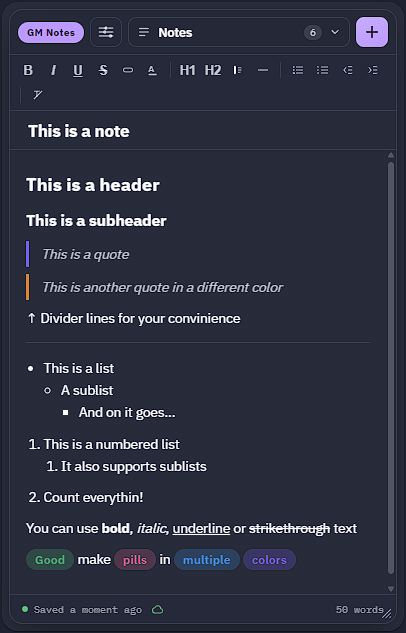
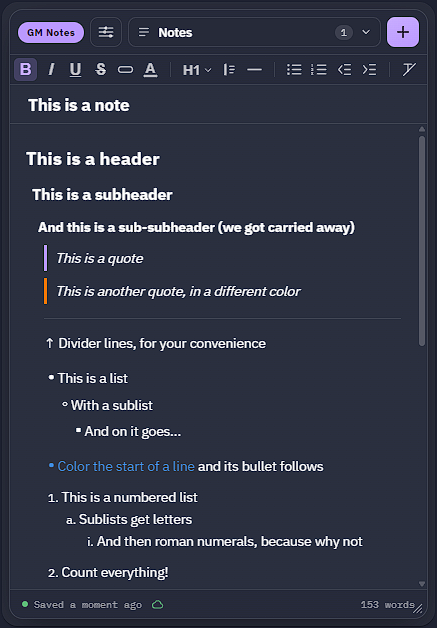
Update README and store listing for 1.2.0, with new screenshots

diff --git a/README.md b/README.md
@@ -15,22 +15,51 @@ https://notes.ijpedraza.com/manifest.json
 
 ## Features
 
-- Rich text: bold, italic, underline, strikethrough, headings, color pills,
-  text color, colored blockquotes, dividers, and bulleted/numbered lists
-  (with indent for sub-lists).
+- Rich text: bold, italic, underline, strikethrough, three heading levels,
+  color pills, text color, colored blockquotes, dividers, and
+  bulleted/numbered lists (with indent for sub-lists). Color the start of a
+  list item and its bullet or number takes the same color.
+- **Collapsible sections**: fold any heading to hide everything under it,
+  and use toggles to tuck details away inside normal-looking text — see
+  [Collapsible sections](#collapsible-sections) below.
 - Multiple notes per room, with search and a quick switcher.
 - **Templates**: start a note from a ready-made layout instead of a blank
   page — see [Templates](#templates) below.
-- **Paste from anywhere**: pasted text keeps its Markdown formatting —
-  headings, `**bold**`/`*italic*`, lists, `> quotes`, and `---` dividers all
-  show up styled instead of as raw symbols.
+- **Copy and paste between notes** keeps all the formatting — pills, colors,
+  headings, lists, and quotes come along as they were.
+- **Paste from anywhere**: text from other apps comes in clean, without
+  stray fonts or colors, and Markdown is recognized — headings,
+  `**bold**`/`*italic*`, lists, `> quotes`, and `---` dividers all show up
+  styled instead of as raw symbols.
 - **Export and import**: save a note (or all of them at once) as a file, and
   bring it back whenever you want. Choose JSON to keep everything exactly
   as it was, or Markdown for a plain-text copy you can read or edit
   anywhere else.
 - Personal accent color and language (English/Spanish) per player.
+- Resizable panel: drag the corner handle, or double-click it to return to
+  the default size.
 
 ![Switching between notes, with search](docs/screenshot-notes.png)
+
+## Collapsible sections
+
+Long notes stay easy to scan: click the arrow next to any heading (or put
+the cursor in it and press **Ctrl+Enter**) to fold everything under it, up
+to the next heading of the same or a higher level. Fold a whole chapter to
+see just its outline, then open only the part you need at the table.
+
+- Pick the block type from the toolbar's block menu: **Normal text**,
+  **Heading 1–3**, or **Toggle**.
+- **Toggles** look exactly like normal text, but fold the lines below them
+  — handy for secret details, stat blocks, or read-aloud text you only
+  want to open when it comes up. To continue writing outside a toggle,
+  switch the next line to **Normal text**.
+- Lines are indented a little for each section they're inside, so you can
+  always see which heading or toggle a line belongs to.
+- Folding a section doesn't count as editing the note: it won't move the
+  note to the top of your list.
+
+![A toggle open, another folded, and a folded heading](docs/screenshot-collapsible.png)
 
 ## Templates
 
@@ -38,15 +67,21 @@ The **+** button lets you start a blank note or begin from a template, so
 recurring notes — an NPC, a location, the plan for next session — always
 start with the right sections in place.
 
-- **Four templates come ready to use**: NPC, Location, Session prep, and
-  Session recap. They follow your chosen language, and a note you create
-  from one keeps that language from then on.
+- **Templates come ready to use**: NPC, Location, Session prep, and
+  Session recap — plus **This is a note**, a quick tour of every formatting
+  option that you can delete once you've had a look. They follow your
+  chosen language, and a note you create from one keeps that language from
+  then on.
 - **Make your own**: set up any note the way you like, then save it as a
   template with the template button on its row in the notes list.
-- **Rename or delete** templates right from the **+** menu.
+- **Rename or delete** templates right from the **+** menu. Deleted one of
+  the built-in templates? **Restore default templates**, at the bottom of
+  the same menu, brings it back.
 - Templates are available in **every room**, not just the one you made
   them in. They're included when you export all your notes, and they sync
   across devices along with your notes when you're signed in.
+
+![Starting a note from a template](docs/screenshot-templates.png)
 
 ## Notes live on your device — with optional cloud sync
 

diff --git a/docs/store.md b/docs/store.md
@@ -24,18 +24,31 @@ visibility toggle, nothing for them to see or edit.
 2. Create a note with the **+** button — blank, or from a template — and
    write using the toolbar or by pasting text. Markdown syntax (headings,
    bold/italic, lists, quotes, dividers) is recognized automatically and
-   converted to real formatting.
+   converted to real formatting, and copying between notes keeps all your
+   formatting.
 3. Switch between notes and search them from the dropdown at the top.
 
 ![Switching between notes, with search](https://raw.githubusercontent.com/nachoijp/owlbear-gm-notes/main/docs/screenshot-notes.png)
 
+## Collapsible sections
+
+Fold any heading to hide everything under it, so long notes stay easy to
+scan and you open only the part you need at the table. **Toggles** look
+like normal text but fold the lines below them — perfect for secrets,
+stat blocks, or read-aloud text. A small indent shows which section each
+line belongs to.
+
+![A toggle open, another folded, and a folded heading](https://raw.githubusercontent.com/nachoijp/owlbear-gm-notes/main/docs/screenshot-collapsible.png)
+
 ## Templates
 
 Start recurring notes with the right sections already in place. GM Notes
-comes with four templates — NPC, Location, Session prep, and Session
-recap — in your chosen language, and you can save any note of your own as
+comes with ready-made templates — NPC, Location, Session prep, Session
+recap, and a quick tour of every formatting option — in your chosen language, and you can save any note of your own as
 a template from the notes list. Templates are available in every room,
 and can be renamed or deleted from the **+** menu.
+
+![Starting a note from a template](https://raw.githubusercontent.com/nachoijp/owlbear-gm-notes/main/docs/screenshot-templates.png)
 
 ## Notes live on your device — with optional cloud sync
 
